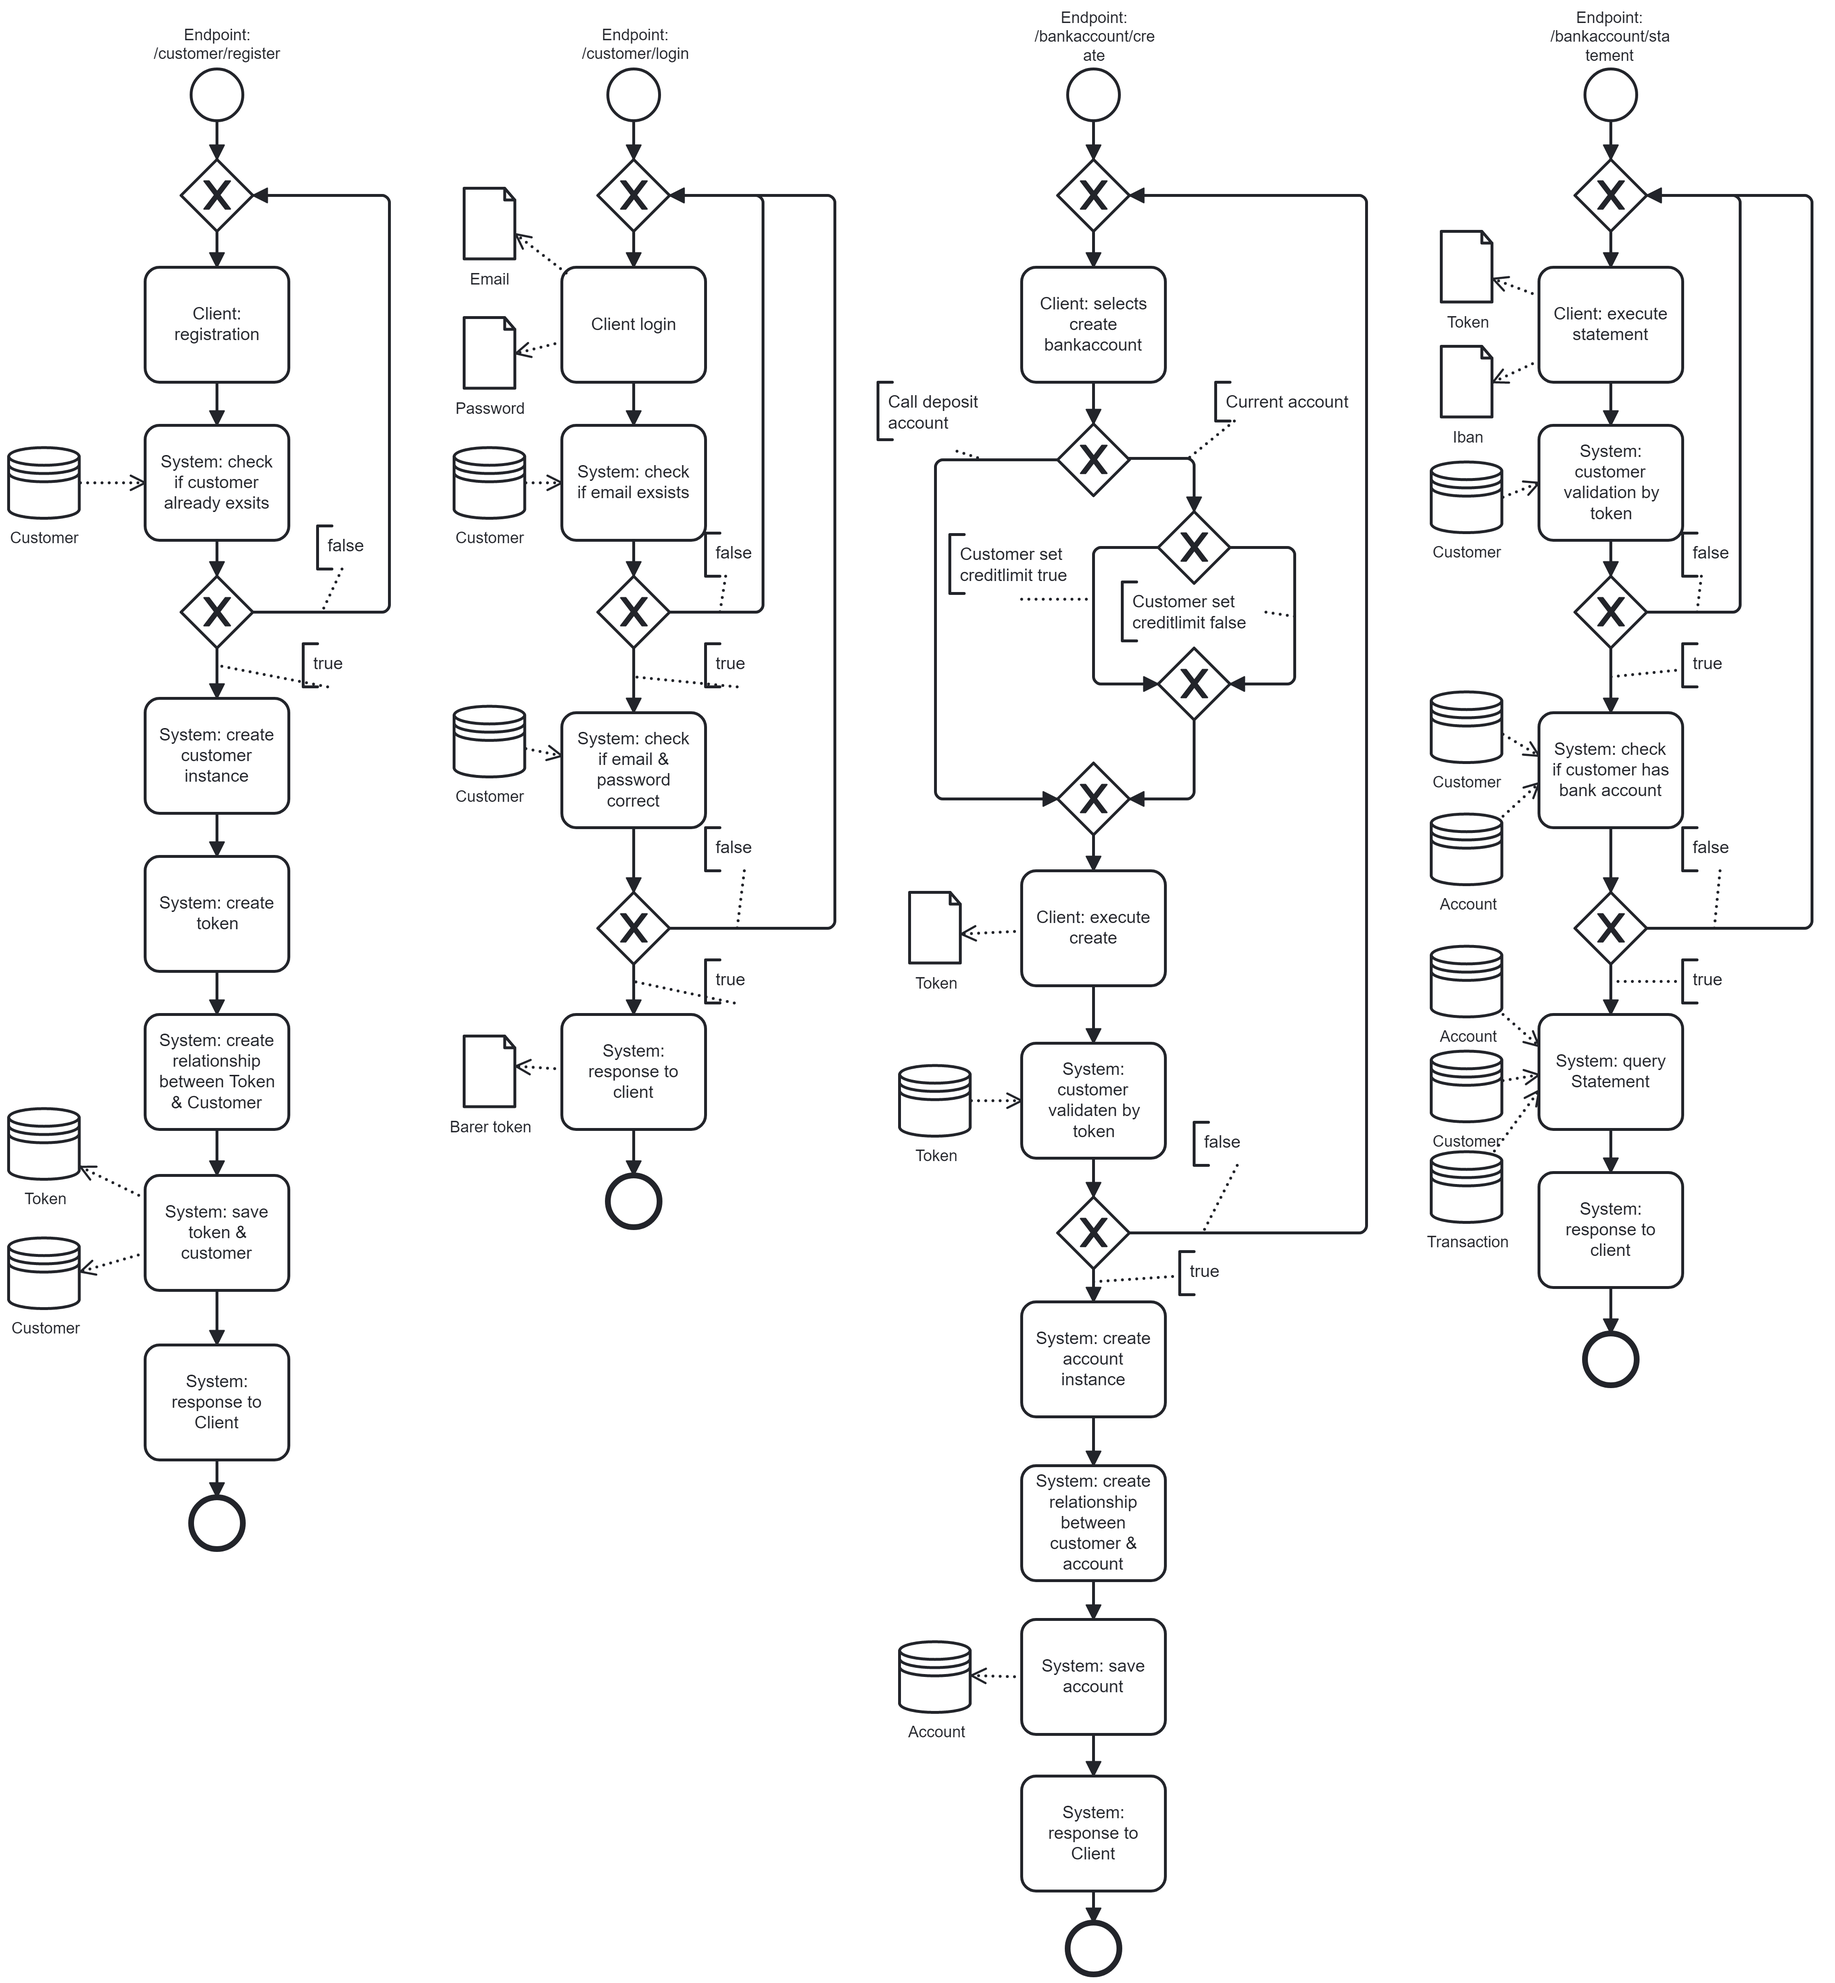
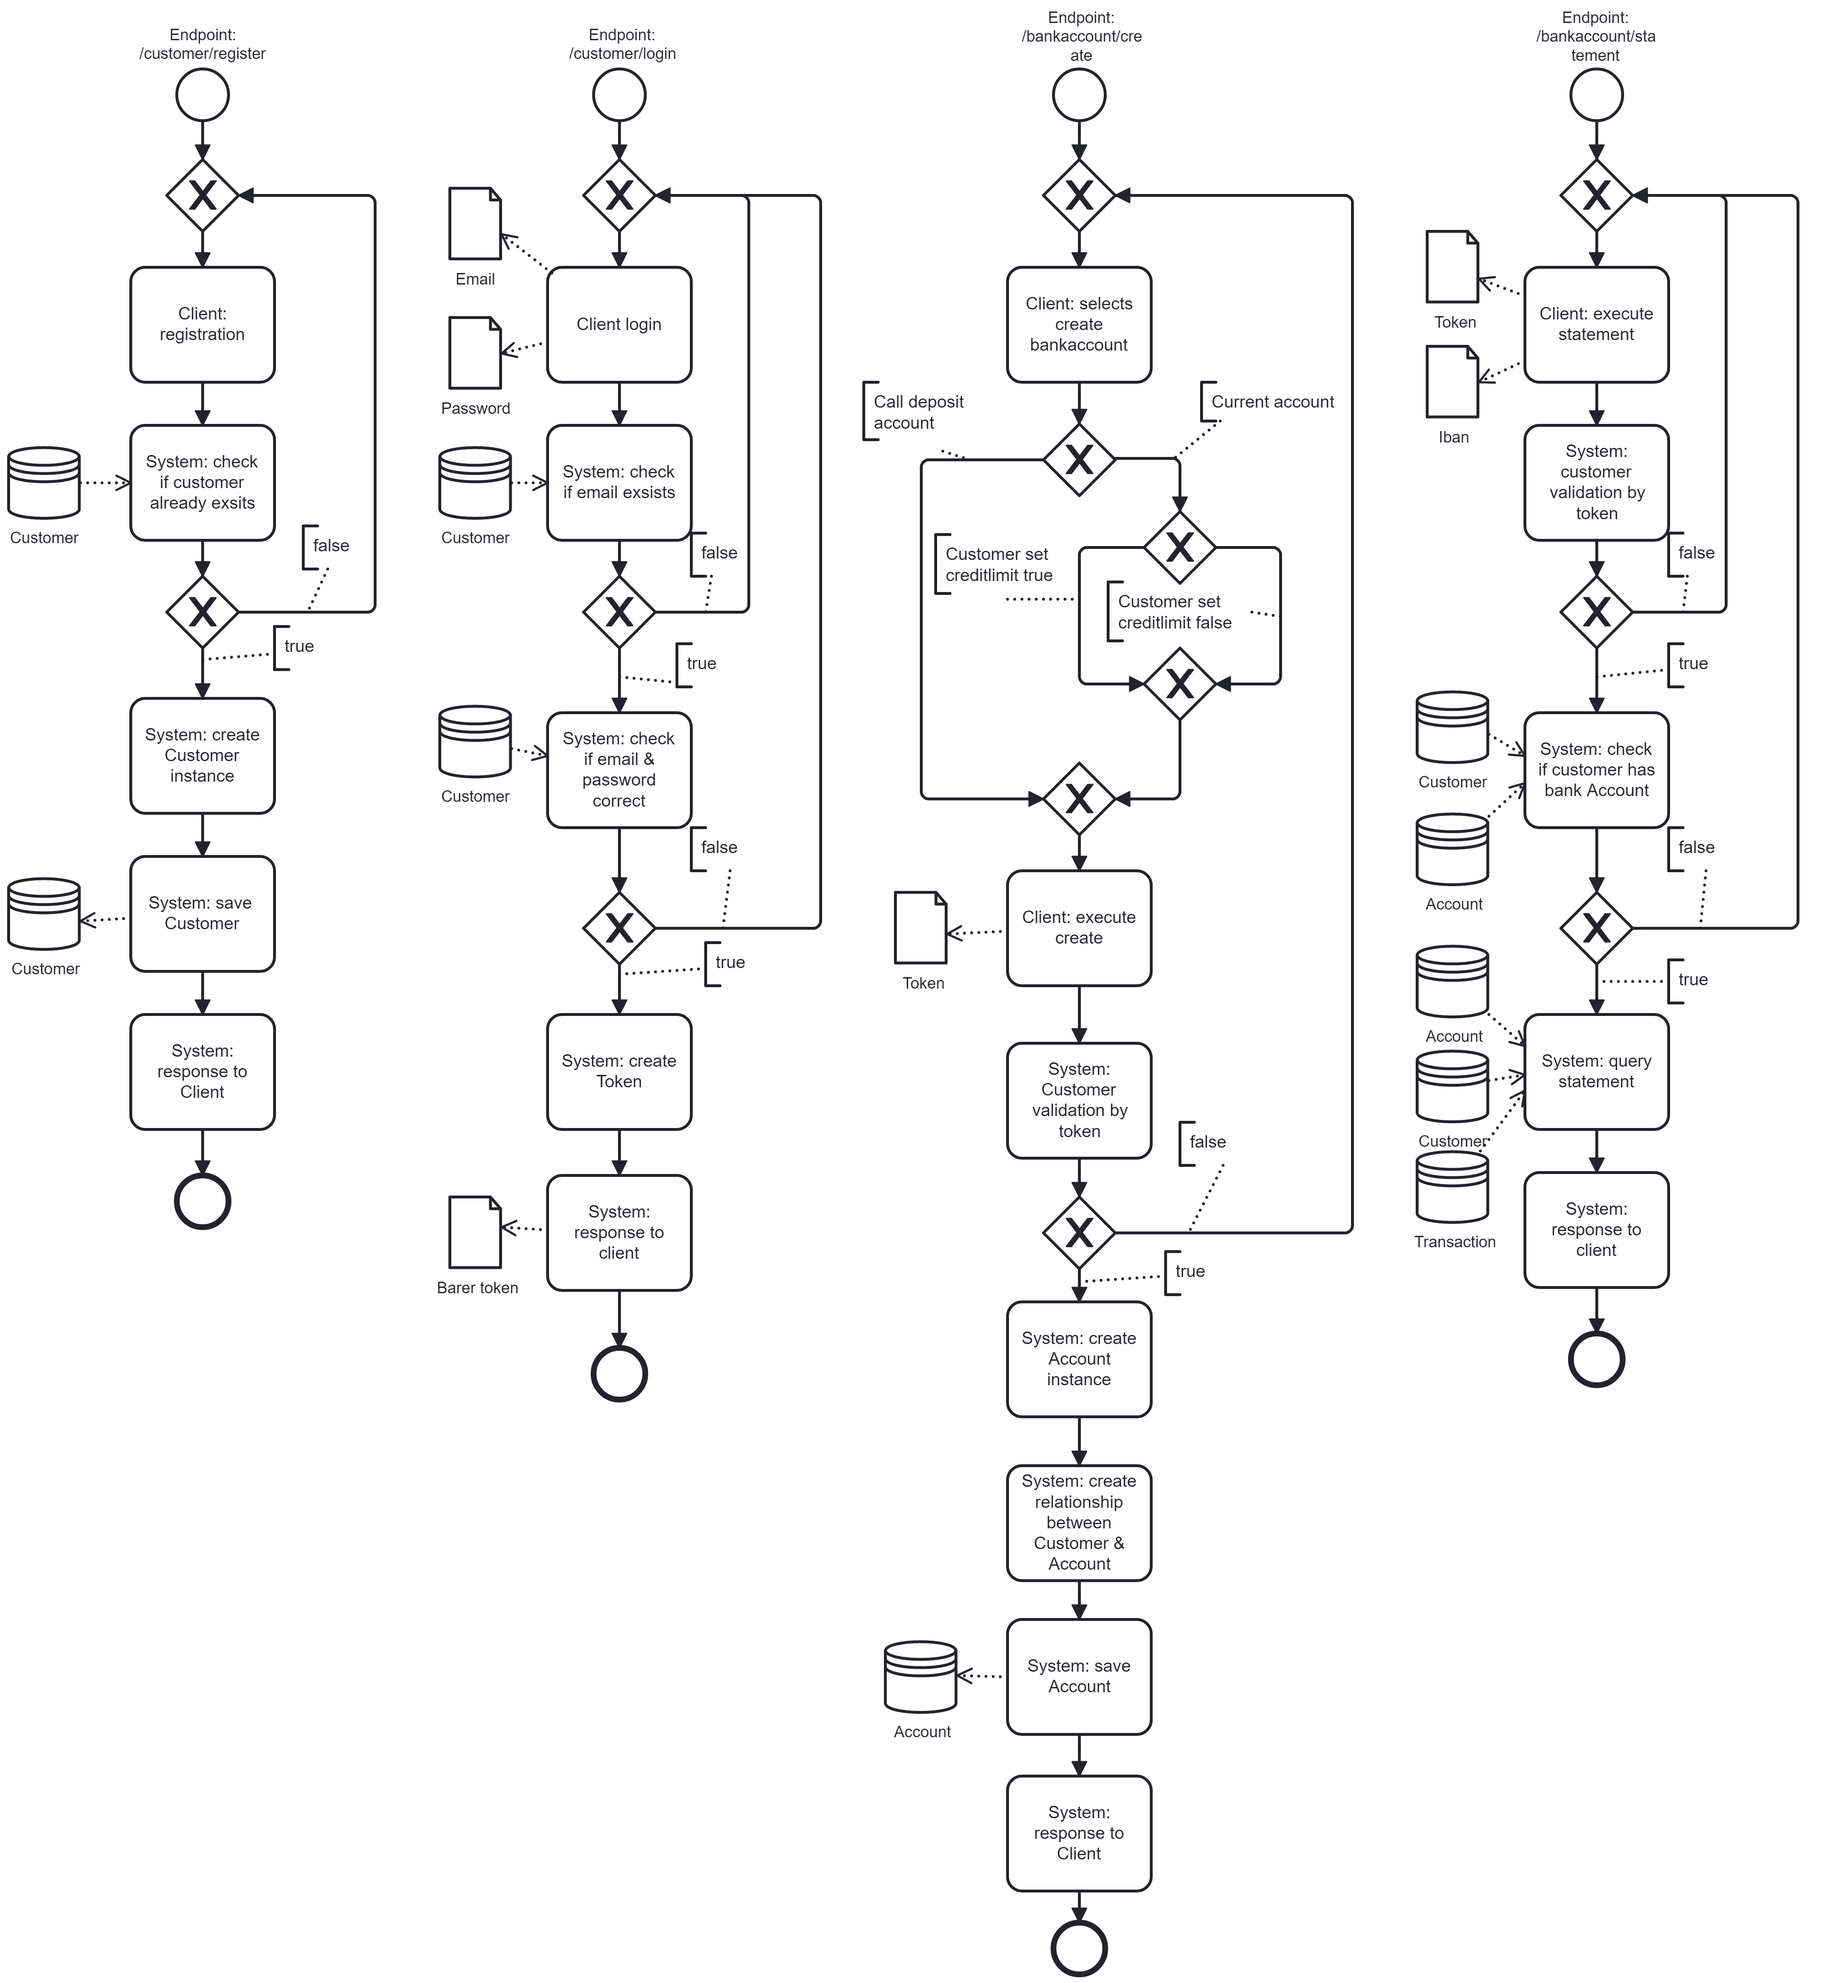
initial

diff --git a/src/main/java/com/goetz/accsystem/controller/CustomerController.java b/src/main/java/com/goetz/accsystem/controller/CustomerController.java
@@ -18,11 +18,11 @@ import jakarta.validation.Valid;
 @RequestMapping("api/customer")
 public class CustomerController {
     
-    private final CustomerService customerTokenService;
+    private final CustomerService customerService;
     private final AuthService authService;
     
     public CustomerController(CustomerService customerService, AuthService authService) {
-        this.customerTokenService = customerService;
+        this.customerService = customerService;
         this.authService = authService;
     }
 
@@ -30,11 +30,11 @@ public class CustomerController {
     @Operation(summary = "register customer")
     public ResponseEntity<CustomerRegisterDTO> register(@Valid @RequestBody CustomerRegisterDTO customerRegisterDTO) throws EmailAlreadyExistException {
         
-        //check if customer exists
-        if (customerTokenService.customerExists(customerRegisterDTO.email())) 
+        //check if Customer exists
+        if (customerService.customerExists(customerRegisterDTO.email())) 
             throw new EmailAlreadyExistException();
         
-        CustomerRegisterDTO savedCustomerDTO = customerTokenService.addCustomer(customerRegisterDTO);
+        CustomerRegisterDTO savedCustomerDTO = customerService.addCustomer(customerRegisterDTO);
         return ResponseEntity.status(HttpStatus.CREATED).body(savedCustomerDTO);
     }
 
@@ -43,11 +43,11 @@ public class CustomerController {
     public ResponseEntity<String> login(@RequestHeader ("email") String email, @RequestHeader ("password") String password) throws EmailAlreadyExistException, AccountNotFoundException {
 
         //if email not exsist = true 
-        if (!customerTokenService.customerExists(email)) 
+        if (!customerService.customerExists(email)) 
             throw new EmailAlreadyExistException();
 
-        //if email and password correct-> response customer his token
-        if(customerTokenService.customerExists(email, password)) {
+        //if email and password correct-> response token to Customer
+        if(customerService.customerExists(email, password)) {
             String token = authService.getToken(email);
             return ResponseEntity.ok().header("Authorization", "Bearer " + token).build();
         }

diff --git a/src/main/java/com/goetz/accsystem/controller/TransactionController.java b/src/main/java/com/goetz/accsystem/controller/TransactionController.java
@@ -90,16 +90,16 @@ public class TransactionController {
         //get Customer by email
         Customer customer = customerService.getCustomer(email).orElseThrow(() -> new CustomerNotFoundException());
 
-        //check if transmitter customer has a bank account to iban
+        //check if transmitter Customer has Account to iban
         accountService.getAccountByCustomerAndIban(customer, transactionTransferDTO.transmitterIban())
                                      .orElseThrow(()-> new AccountNotFoundException("No customer bank account found"));
 
-        //check if reciever customer has a bank account to iban
+        //check if reciever Customer has Account to iban
         customerService.getCustomerByFirstnameAndLastnameAndIban(transactionTransferDTO.firstNameReceiver(), 
                            transactionTransferDTO.lastNameReceiver(), transactionTransferDTO.receiverIban())
                 .orElseThrow(()-> new AccountNotFoundException("Wrong iban, firstname or lastname"));
 
-        //execute transaction
+        //execute Transaction
         TransactionTransferDTO savedTransactionTransferDTO = transactionService.addTransfer(transactionTransferDTO);
 
         return ResponseEntity.status(HttpStatus.CREATED).body(savedTransactionTransferDTO);

diff --git a/src/main/java/com/goetz/accsystem/controller/AccountController.java b/src/main/java/com/goetz/accsystem/controller/AccountController.java
@@ -52,10 +52,10 @@ public class AccountController {
         //get Customer by email
         Customer customer = customerService.getCustomer(email).orElseThrow(() -> new CustomerNotFoundException());
 
-        //create acc with factory 
+        //create Account with factory 
         Account bankaccount = accountFactory.createAccount(accountCreateRequestDTO).orElseThrow(() -> new FailedToCreateAccountException("Failed to create account"));
 
-        //acc -> database
+        //Account -> database
         AccountCreateResponseDTO savedAccountCreateResponseDTO = accountService.addAccount(bankaccount, customer);
 
         return ResponseEntity.status(HttpStatus.CREATED).body(savedAccountCreateResponseDTO);
@@ -71,7 +71,7 @@ public class AccountController {
         //get Customer by email
         Customer customer = customerService.getCustomer(email).orElseThrow(() -> new CustomerNotFoundException());
 
-        //check if customer has a bank account to iban
+        //check if Customer has Account to iban
         accountService.getAccountByCustomerAndIban(customer, statementRequestDTO.iban())
                                 .orElseThrow(()-> new AccountNotFoundException("No bank account found"));
         

diff --git a/src/main/java/com/goetz/accsystem/validation/AccountTypeValidator.java b/src/main/java/com/goetz/accsystem/validation/AccountTypeValidator.java
@@ -1,19 +1,20 @@
 package com.goetz.accsystem.validation;
 
-import com.goetz.accsystem.factory.AccountFactory;
 import jakarta.validation.ConstraintValidator;
 import jakarta.validation.ConstraintValidatorContext;
 
-public class AccountTypeValidator implements ConstraintValidator<ValidAccountType, AccountFactory.AccountType> {
+public class AccountTypeValidator implements ConstraintValidator<ValidAccountType, String> {
+
+    private final String CURRENT_ACCOUNT = "CURRENT_ACCOUNT";
+    private final String CALL_DEPOSIT_ACCOUNT = "CALL_DEPOSIT_ACCOUNT";
 
     @Override
-    public boolean isValid(AccountFactory.AccountType accountType, ConstraintValidatorContext context) {
+    public boolean isValid(String accountType, ConstraintValidatorContext context) {
 
-        if (accountType == null) {
-            return false;
-        }
+        if(accountType.equals(CURRENT_ACCOUNT) || accountType.equals(CALL_DEPOSIT_ACCOUNT)) return true;
+        
+        else return false;
+    }
 
-        return accountType == AccountFactory.AccountType.CURRENT_ACCOUNT ||
-               accountType == AccountFactory.AccountType.CALL_DEPOSIT_ACCOUNT;
-    }  
+   
 }

diff --git a/src/main/java/com/goetz/accsystem/factory/AccountFactory.java b/src/main/java/com/goetz/accsystem/factory/AccountFactory.java
@@ -7,8 +7,8 @@ import com.goetz.accsystem.dto.AccountCreateRequestDTO;
 import com.goetz.accsystem.entity.Account;
 import com.goetz.accsystem.generator.IbanGenerator;
 
-//factory creats current account with and without creditlimit
-//factory creats call deposit account with interest rate
+//factory creats current Account with/without creditlimit
+//factory creats call deposit Account with interest rate
 @Component
 public class AccountFactory {
 
@@ -28,7 +28,7 @@ public class AccountFactory {
 
     public Optional<Account> createAccount(AccountCreateRequestDTO accountCreateRequestDTO) {
 
-        AccountType accountType = accountCreateRequestDTO.accountType();
+        AccountType accountType = AccountType.valueOf(accountCreateRequestDTO.accountType());
         Boolean creditLimit = accountCreateRequestDTO.creditLimitBoolean();
     
         if(accountType.equals(AccountType.CURRENT_ACCOUNT)) {

diff --git a/src/main/java/com/goetz/accsystem/repository/CustomerRepository.java b/src/main/java/com/goetz/accsystem/repository/CustomerRepository.java
@@ -14,9 +14,9 @@ public interface CustomerRepository extends CrudRepository<Customer, Long> {
 
     Optional<Customer> findByEmail(String email);
 
-    //1. check if customer exsist by firstname and lastname 
-    //2. check if account exsist by iban 
-    //3. check if customer and account has relationship 
+    //1. check if Customer exsist by firstname and lastname 
+    //2. check if Account exsist by iban 
+    //3. check if Customer and Account has relationship 
     @Query(value = "SELECT c.* FROM CUSTOMER c, ACCOUNT a WHERE c.FIRSTNAME = :firstName AND c.LASTNAME = :lastName AND a.IBAN = :iban AND c.ID = a.CUSTOMER_ID", nativeQuery = true)
     Optional<Customer> findCustomerByFullNameAndIban(String firstName, String lastName, String iban);
 }

diff --git a/src/main/java/com/goetz/accsystem/dto/AccountCreateRequestDTO.java b/src/main/java/com/goetz/accsystem/dto/AccountCreateRequestDTO.java
@@ -1,16 +1,17 @@
 package com.goetz.accsystem.dto;
 
-import com.goetz.accsystem.factory.AccountFactory;
 import com.goetz.accsystem.validation.ValidAccountType;
 
 import io.swagger.v3.oas.annotations.media.Schema;
+import jakarta.validation.constraints.NotBlank;
 import jakarta.validation.constraints.NotNull;
 
 public record AccountCreateRequestDTO(
 @Schema(example = "CURRENT_ACCOUNT")
 @NotNull(message = "Account type is required")
+@NotBlank(message = "Credit limit boolean is required")
 @ValidAccountType
-AccountFactory.AccountType accountType,
+String  accountType,
 
 //credit limit for call deposit account always false
 @Schema(example = "TRUE")

diff --git a/src/main/java/com/goetz/accsystem/security/AuthService.java b/src/main/java/com/goetz/accsystem/security/AuthService.java
@@ -50,9 +50,10 @@ public class AuthService {
     public Optional<String> validate(String token) {
 
         try {
-
+            
             Jws<Claims> claimsJws = Jwts.parserBuilder().setSigningKey(jwtSecret).build().parseClaimsJws(token);
             String email = claimsJws.getBody().getSubject();
+
             return Optional.of(email);
             
         } catch (JwtException | IllegalArgumentException e) {
@@ -60,7 +61,6 @@ public class AuthService {
         }
     }
     
-
     public SecretKey getJwtSecret() {
         return this.jwtSecret;
     }

diff --git a/src/main/java/com/goetz/accsystem/service/CustomerService.java b/src/main/java/com/goetz/accsystem/service/CustomerService.java
@@ -47,7 +47,6 @@ public class CustomerService {
     public Boolean customerExists(String email, String password) throws AccountNotFoundException {
 
         Customer customer = customerRepository.findByEmail(email).orElseThrow(() -> new AccountNotFoundException("customer not found"));
-
         return passwordEncoder.matches(password, customer.getPassword());
     }
     

diff --git a/src/main/java/com/goetz/accsystem/repository/TransactionRepository.java b/src/main/java/com/goetz/accsystem/repository/TransactionRepository.java
@@ -11,7 +11,7 @@ import com.goetz.accsystem.entity.Transaction;
 
 public interface TransactionRepository extends CrudRepository<Transaction, Long> {
 
-    //search all transaction by iban 
+    //search all Transaction by iban 
     List<Transaction> findAllByAccountIban(String iban);
 
     //SELECT * FROM transaction WHERE account_iban = ? AND date BETWEEN ? AND ?;

diff --git a/src/main/java/com/goetz/accsystem/dto/CustomerRegisterDTO.java b/src/main/java/com/goetz/accsystem/dto/CustomerRegisterDTO.java
@@ -38,4 +38,5 @@ public record CustomerRegisterDTO(
     @Schema(example = "1998-06-16")
     @NotNull(message = "Birthday must not be null")
     @Pattern(regexp = "^\\d{4}-\\d{2}-\\d{2}$", message = "Birthday must be in the format yyyy-MM-dd")
-    String birthday) {}
+    String birthday
+    ) {}

diff --git a/src/main/java/com/goetz/accsystem/entity/Customer.java b/src/main/java/com/goetz/accsystem/entity/Customer.java
@@ -20,7 +20,6 @@ public class Customer {
     @OneToMany(mappedBy = "customer") 
     private List<Account> accounts = new ArrayList<>(); //relation with "Account"
 
-    //Exception falls Email gleich 
     @Column(unique = true, nullable = false)
     private String email;
 
